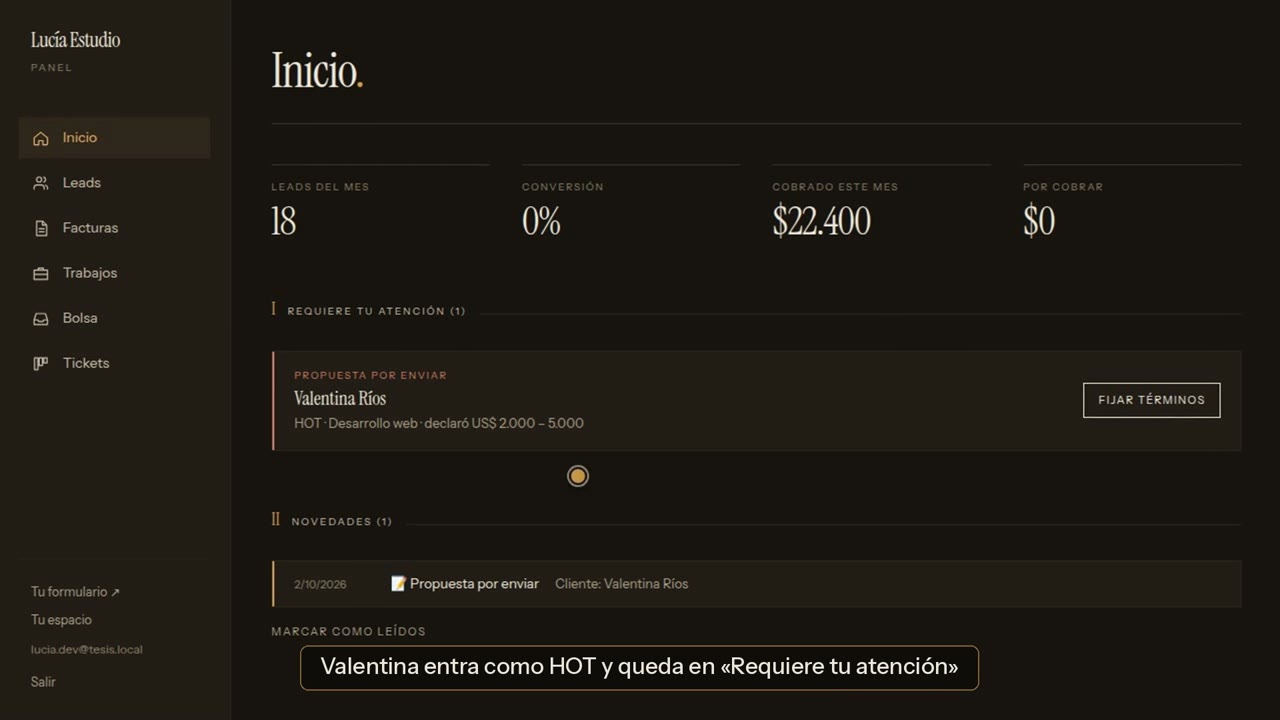
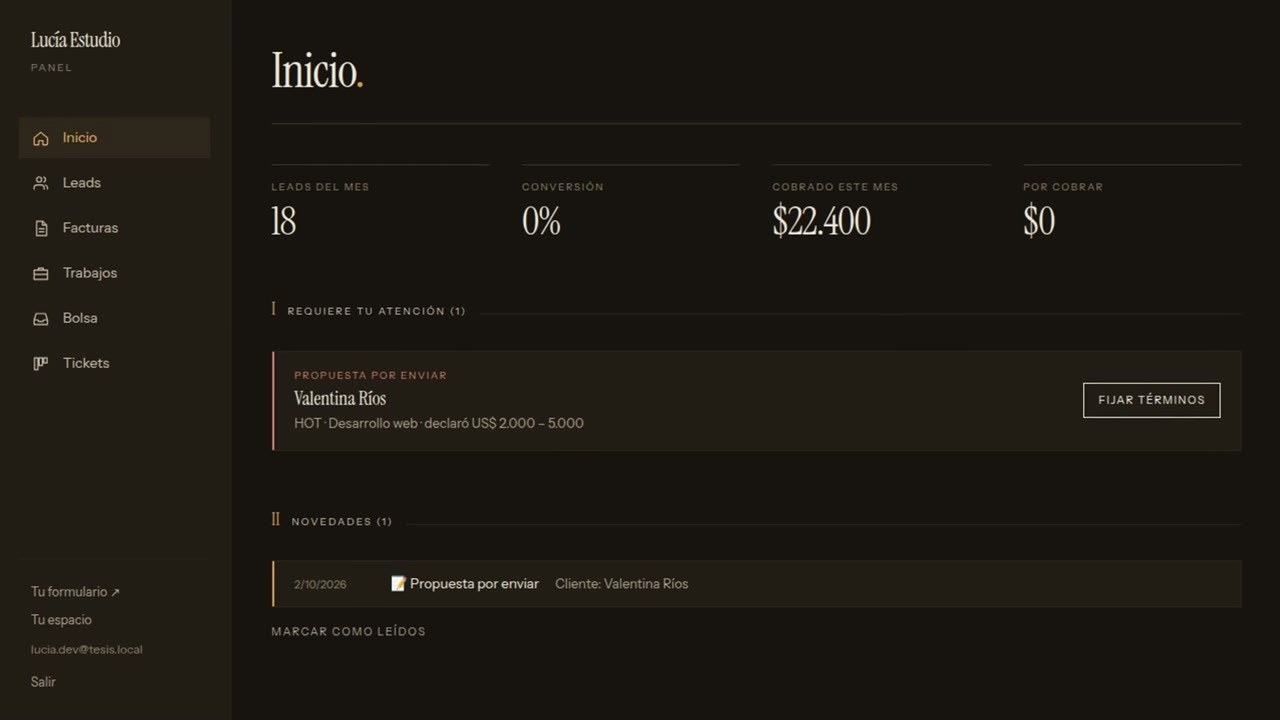
Destacar métricas del CRM, aclarar qué busco y mejorar SEO y habilidades

Changed region(s): [[0.25, 0.8861, 0.75, 0.9472], [0.4375, 0.6417, 0.4688, 0.6722]]

diff --git a/index.html b/index.html
@@ -3,7 +3,7 @@
 <head>
     <meta charset="UTF-8">
     <meta name="viewport" content="width=device-width, initial-scale=1.0">
-    <title>Portfolio Tobias Rivas</title>
+    <title>Tobias Rivas • Desarrollador Full Stack (React, Next.js, NestJS)</title>
     <meta name="description" content="Portfolio de Tobias Rivas, Técnico Universitario en Programación y desarrollador full stack de Mendoza, Argentina.">
     <meta property="og:type" content="website">
     <meta property="og:title" content="Tobias Rivas • Desarrollador Full Stack">
@@ -16,6 +16,32 @@
     <meta name="twitter:card" content="summary_large_image">
     <meta name="twitter:image" content="https://tobias-rivas.vercel.app/img/og.jpg">
     <link rel="canonical" href="https://tobias-rivas.vercel.app/">
+    <script type="application/ld+json">
+    {
+        "@context": "https://schema.org",
+        "@type": "Person",
+        "name": "Tobias Rivas",
+        "url": "https://tobias-rivas.vercel.app/",
+        "image": "https://tobias-rivas.vercel.app/img/profile.png",
+        "jobTitle": "Desarrollador Full Stack",
+        "email": "mailto:tobiasbrivas@gmail.com",
+        "address": {
+            "@type": "PostalAddress",
+            "addressLocality": "Mendoza",
+            "addressCountry": "AR"
+        },
+        "alumniOf": {
+            "@type": "CollegeOrUniversity",
+            "name": "Universidad Tecnológica Nacional, Facultad Regional Mendoza"
+        },
+        "knowsLanguage": ["es", "en"],
+        "knowsAbout": ["TypeScript", "React", "Next.js", "NestJS", "Node.js", "PostgreSQL", "Supabase", "n8n", "Stripe", "Docker"],
+        "sameAs": [
+            "https://github.com/Boit-6",
+            "https://www.linkedin.com/in/tobias-rivas-1220b7283/"
+        ]
+    }
+    </script>
     <script>
         // Tema e idioma antes del primer pintado, para que no parpadee
         (function () {
@@ -65,7 +91,7 @@
         <div class="content-grid">
             <div class="about-card">
                 <h2 class="about__heading" id="about-heading">Sobre mí</h2>
-                <p id="about-paragraph">Técnico Universitario en Programación (UTN) y Técnico en Electrónica. Desarrollo aplicaciones web full stack con React, Next.js, NestJS y PostgreSQL, y automatizo procesos con n8n. Vengo del servicio técnico de hardware, así que resuelvo tanto problemas de software como de equipos y redes. Busco crecer como desarrollador aportando trabajo en equipo, aprendizaje rápido y adaptabilidad.</p>
+                <p id="about-paragraph">Técnico Universitario en Programación (UTN) y Técnico en Electrónica. Desarrollo aplicaciones web full stack con React, Next.js, NestJS y PostgreSQL, y automatizo procesos con n8n. Vengo del servicio técnico de hardware, así que resuelvo tanto problemas de software como de equipos y redes. Busco un puesto como desarrollador full stack, remoto o presencial en Mendoza. Disponibilidad inmediata.</p>
                 <p class="about__languages" id="about-languages">Idiomas: Español (nativo) • Inglés (intermedio, B1)</p>
             </div>
 
@@ -126,9 +152,11 @@
                     <h3 id="tools-heading">Herramientas</h3>
                     <div class="skills__list">
                         <div class="skill"><svg class="skills__icon skills__icon--git" xmlns="http://www.w3.org/2000/svg" viewBox="0 0 24 24" role="img"><title>Git</title><path d="M13.09 23.549a1.54 1.54 0 0 1-2.18 0L.451 13.089a1.54 1.54 0 0 1 0-2.179l7.191-7.19 2.733 2.733a1.85 1.85 0 0 0 .964 2.326v6.66a1.849 1.849 0 1 0 1.54 0V8.957l2.508 2.508a1.85 1.85 0 1 0 1.09-1.09l-2.634-2.634a1.85 1.85 0 0 0-2.378-2.377L8.73 2.63 10.91.451a1.54 1.54 0 0 1 2.179 0l10.459 10.46a1.54 1.54 0 0 1 0 2.179z"/></svg><span>Git</span></div>
-                        <div class="skill"><svg class="skills__icon skills__icon--vscode" xmlns="http://www.w3.org/2000/svg" viewBox="0 0 24 24" role="img"><title>VS Code</title><path d="M23.15 2.587L18.21.21a1.494 1.494 0 0 0-1.705.29l-9.46 8.63-4.12-3.128a.999.999 0 0 0-1.276.057L.327 7.261A1 1 0 0 0 .326 8.74L3.899 12 .326 15.26a1 1 0 0 0 .001 1.479L1.65 17.94a.999.999 0 0 0 1.276.057l4.12-3.128 9.46 8.63a1.492 1.492 0 0 0 1.704.29l4.942-2.377A1.5 1.5 0 0 0 24 20.06V3.939a1.5 1.5 0 0 0-.85-1.352zm-5.146 14.861L10.826 12l7.178-5.448v10.896z"/></svg><span>VS Code</span></div>
                         <div class="skill"><svg class="skills__icon skills__icon--docker" xmlns="http://www.w3.org/2000/svg" viewBox="0 0 24 24" role="img"><title>Docker</title><path d="M13.983 11.078h2.119a.186.186 0 00.186-.185V9.006a.186.186 0 00-.186-.186h-2.119a.185.185 0 00-.185.185v1.888c0 .102.083.185.185.185m-2.954-5.43h2.118a.186.186 0 00.186-.186V3.574a.186.186 0 00-.186-.185h-2.118a.185.185 0 00-.185.185v1.888c0 .102.082.185.185.185m0 2.716h2.118a.187.187 0 00.186-.186V6.29a.186.186 0 00-.186-.185h-2.118a.185.185 0 00-.185.185v1.887c0 .102.082.185.185.186m-2.93 0h2.12a.186.186 0 00.184-.186V6.29a.185.185 0 00-.185-.185H8.1a.185.185 0 00-.185.185v1.887c0 .102.083.185.185.186m-2.964 0h2.119a.186.186 0 00.185-.186V6.29a.185.185 0 00-.185-.185H5.136a.186.186 0 00-.186.185v1.887c0 .102.084.185.186.186m5.893 2.715h2.118a.186.186 0 00.186-.185V9.006a.186.186 0 00-.186-.186h-2.118a.185.185 0 00-.185.185v1.888c0 .102.082.185.185.185m-2.93 0h2.12a.185.185 0 00.184-.185V9.006a.185.185 0 00-.184-.186h-2.12a.185.185 0 00-.184.185v1.888c0 .102.083.185.185.185m-2.964 0h2.119a.185.185 0 00.185-.185V9.006a.185.185 0 00-.184-.186h-2.12a.186.186 0 00-.186.186v1.887c0 .102.084.185.186.185m-2.92 0h2.12a.185.185 0 00.184-.185V9.006a.185.185 0 00-.184-.186h-2.12a.185.185 0 00-.184.185v1.888c0 .102.082.185.185.185M23.763 9.89c-.065-.051-.672-.51-1.954-.51-.338.001-.676.03-1.01.087-.248-1.7-1.653-2.53-1.716-2.566l-.344-.199-.226.327c-.284.438-.49.922-.612 1.43-.23.97-.09 1.882.403 2.661-.595.332-1.55.413-1.744.42H.751a.751.751 0 00-.75.748 11.376 11.376 0 00.692 4.062c.545 1.428 1.355 2.48 2.41 3.124 1.18.723 3.1 1.137 5.275 1.137.983.003 1.963-.086 2.93-.266a12.248 12.248 0 003.823-1.389c.98-.567 1.86-1.288 2.61-2.136 1.252-1.418 1.998-2.997 2.553-4.4h.221c1.372 0 2.215-.549 2.68-1.009.309-.293.55-.65.707-1.046l.098-.288Z"/></svg><span>Docker</span></div>
                         <div class="skill"><svg class="skills__icon skills__icon--n8n" xmlns="http://www.w3.org/2000/svg" viewBox="0 0 24 24" role="img"><title>n8n</title><path d="M21.4737 5.6842c-1.1772 0-2.1663.8051-2.4468 1.8947h-2.8955c-1.235 0-2.289.893-2.492 2.111l-.1038.623a1.263 1.263 0 0 1-1.246 1.0555H11.289c-.2805-1.0896-1.2696-1.8947-2.4468-1.8947s-2.1663.8051-2.4467 1.8947H4.973c-.2805-1.0896-1.2696-1.8947-2.4468-1.8947C1.1311 9.4737 0 10.6047 0 12s1.131 2.5263 2.5263 2.5263c1.1772 0 2.1663-.8051 2.4468-1.8947h1.4223c.2804 1.0896 1.2696 1.8947 2.4467 1.8947 1.1772 0 2.1663-.8051 2.4468-1.8947h1.0008a1.263 1.263 0 0 1 1.2459 1.0555l.1038.623c.203 1.218 1.257 2.111 2.492 2.111h.3692c.2804 1.0895 1.2696 1.8947 2.4468 1.8947 1.3952 0 2.5263-1.131 2.5263-2.5263s-1.131-2.5263-2.5263-2.5263c-1.1772 0-2.1664.805-2.4468 1.8947h-.3692a1.263 1.263 0 0 1-1.246-1.0555l-.1037-.623A2.52 2.52 0 0 0 13.9607 12a2.52 2.52 0 0 0 .821-1.4794l.1038-.623a1.263 1.263 0 0 1 1.2459-1.0555h2.8955c.2805 1.0896 1.2696 1.8947 2.4468 1.8947 1.3952 0 2.5263-1.131 2.5263-2.5263s-1.131-2.5263-2.5263-2.5263m0 1.2632a1.263 1.263 0 0 1 1.2631 1.2631 1.263 1.263 0 0 1-1.2631 1.2632 1.263 1.263 0 0 1-1.2632-1.2632 1.263 1.263 0 0 1 1.2632-1.2631M2.5263 10.7368A1.263 1.263 0 0 1 3.7895 12a1.263 1.263 0 0 1-1.2632 1.2632A1.263 1.263 0 0 1 1.2632 12a1.263 1.263 0 0 1 1.2631-1.2632m6.3158 0A1.263 1.263 0 0 1 10.1053 12a1.263 1.263 0 0 1-1.2632 1.2632A1.263 1.263 0 0 1 7.579 12a1.263 1.263 0 0 1 1.2632-1.2632m10.1053 3.7895a1.263 1.263 0 0 1 1.2631 1.2632 1.263 1.263 0 0 1-1.2631 1.2631 1.263 1.263 0 0 1-1.2632-1.2631 1.263 1.263 0 0 1 1.2632-1.2632"/></svg><span>n8n</span></div>
+                        <div class="skill"><svg class="skills__icon skills__icon--actions" xmlns="http://www.w3.org/2000/svg" viewBox="0 0 24 24" role="img"><title>GitHub Actions</title><path d="M10.984 13.836a.5.5 0 0 1-.353-.146l-.745-.743a.5.5 0 1 1 .706-.708l.392.391 1.181-1.18a.5.5 0 0 1 .708.707l-1.535 1.533a.504.504 0 0 1-.354.146zm9.353-.147l1.534-1.532a.5.5 0 0 0-.707-.707l-1.181 1.18-.392-.391a.5.5 0 1 0-.706.708l.746.743a.497.497 0 0 0 .706-.001zM4.527 7.452l2.557-1.585A1 1 0 0 0 7.09 4.17L4.533 2.56A1 1 0 0 0 3 3.406v3.196a1.001 1.001 0 0 0 1.527.85zm2.03-2.436L4 6.602V3.406l2.557 1.61zM24 12.5c0 1.93-1.57 3.5-3.5 3.5a3.503 3.503 0 0 1-3.46-3h-2.08a3.503 3.503 0 0 1-3.46 3 3.502 3.502 0 0 1-3.46-3h-.558c-.972 0-1.85-.399-2.482-1.042V17c0 1.654 1.346 3 3 3h.04c.244-1.693 1.7-3 3.46-3 1.93 0 3.5 1.57 3.5 3.5S13.43 24 11.5 24a3.502 3.502 0 0 1-3.46-3H8c-2.206 0-4-1.794-4-4V9.899A5.008 5.008 0 0 1 0 5c0-2.757 2.243-5 5-5s5 2.243 5 5a5.005 5.005 0 0 1-4.952 4.998A2.482 2.482 0 0 0 7.482 12h.558c.244-1.693 1.7-3 3.46-3a3.502 3.502 0 0 1 3.46 3h2.08a3.503 3.503 0 0 1 3.46-3c1.93 0 3.5 1.57 3.5 3.5zm-15 8c0 1.378 1.122 2.5 2.5 2.5s2.5-1.122 2.5-2.5-1.122-2.5-2.5-2.5S9 19.122 9 20.5zM5 9c2.206 0 4-1.794 4-4S7.206 1 5 1 1 2.794 1 5s1.794 4 4 4zm9 3.5c0-1.378-1.122-2.5-2.5-2.5S9 11.122 9 12.5s1.122 2.5 2.5 2.5 2.5-1.122 2.5-2.5zm9 0c0-1.378-1.122-2.5-2.5-2.5S18 11.122 18 12.5s1.122 2.5 2.5 2.5 2.5-1.122 2.5-2.5zm-13 8a.5.5 0 1 0 1 0 .5.5 0 0 0-1 0zm2 0a.5.5 0 1 0 1 0 .5.5 0 0 0-1 0zm12 0c0 1.93-1.57 3.5-3.5 3.5a3.503 3.503 0 0 1-3.46-3.002c-.007.001-.013.005-.021.005l-.506.017h-.017a.5.5 0 0 1-.016-.999l.506-.017c.018-.002.035.006.052.007A3.503 3.503 0 0 1 20.5 17c1.93 0 3.5 1.57 3.5 3.5zm-1 0c0-1.378-1.122-2.5-2.5-2.5S18 19.122 18 20.5s1.122 2.5 2.5 2.5 2.5-1.122 2.5-2.5z"/></svg><span>GitHub Actions</span></div>
+                        <div class="skill"><svg class="skills__icon skills__icon--vitest" xmlns="http://www.w3.org/2000/svg" viewBox="0 0 24 24" role="img"><title>Vitest</title><path d="M11.545 23.3a.613.613 0 0 1-.895.197L.252 15.936A.61.61 0 0 1 0 15.439V6.325c0-.502.569-.792.975-.497l6.358 4.624c.594.433 1.432.25 1.793-.39L14.393.7a.62.62 0 0 1 .535-.314h8.455a.613.613 0 0 1 .537.916z"/></svg><span>Vitest</span></div>
+                        <div class="skill"><svg class="skills__icon skills__icon--stripe" xmlns="http://www.w3.org/2000/svg" viewBox="0 0 24 24" role="img"><title>Stripe</title><path d="M13.976 9.15c-2.172-.806-3.356-1.426-3.356-2.409 0-.831.683-1.305 1.901-1.305 2.227 0 4.515.858 6.09 1.631l.89-5.494C18.252.975 15.697 0 12.165 0 9.667 0 7.589.654 6.104 1.872 4.56 3.147 3.757 4.992 3.757 7.218c0 4.039 2.467 5.76 6.476 7.219 2.585.92 3.445 1.574 3.445 2.583 0 .98-.84 1.545-2.354 1.545-1.875 0-4.965-.921-6.99-2.109l-.9 5.555C5.175 22.99 8.385 24 11.714 24c2.641 0 4.843-.624 6.328-1.813 1.664-1.305 2.525-3.236 2.525-5.732 0-4.128-2.524-5.851-6.594-7.305h.003z"/></svg><span>Stripe</span></div>
                     </div>
                 </div>
 
@@ -191,14 +219,19 @@
             <h2 class="skills-main-heading" id="projects-heading">Proyectos</h2>
             <div class="projects-container">
                 <article class="project-card">
-                    <a class="project-image" href="https://github.com/Boit-6/crm-freelancers-n8n" target="_blank" rel="noopener noreferrer">
+                    <a class="project-image" href="https://crm-freelancers-n8n.vercel.app" target="_blank" rel="noopener noreferrer">
                         <img src="img/crm-panel.jpg" alt="Panel del CRM para freelancers" id="project1-image" loading="lazy">
                     </a>
                     <div class="project-info">
                         <h3 id="project1-title">CRM para freelancers</h3>
                         <p class="project-tag" id="project1-tag">Trabajo Final • Tecnicatura Universitaria en Programación (UTN)</p>
                         <p class="project-description" id="project1-description">Plataforma que lleva un pedido de la consulta al cobro sin tareas manuales: propuesta en línea, factura en PDF, pagos protegidos por hitos con Stripe y panel en tiempo real. Empezó como trabajo final en equipo de dos y después la amplié por mi cuenta.</p>
-                        <p class="project-stack">Next.js • React • n8n • Supabase • Stripe • Docker</p>
+                        <ul class="project-highlights">
+                            <li id="project1-highlight1">Pagos con Stripe Connect por hitos: fondos retenidos, liberación automática a los 7 días y webhooks idempotentes con firma verificada.</li>
+                            <li id="project1-highlight2">Automatización en n8n con 21 webhooks, 9 procesos programados y 314 nodos.</li>
+                            <li id="project1-highlight3">291 casos de prueba de RLS, 240 pruebas de front con Vitest y CI con lint, tipos, build y escaneo de secretos.</li>
+                        </ul>
+                        <p class="project-stack">Next.js • React • TypeScript • n8n • Supabase • Stripe Connect • Docker</p>
                         <div class="project-links">
                             <a href="https://github.com/Boit-6/crm-freelancers-n8n" target="_blank" rel="noopener noreferrer" id="project1-repo">Repositorio</a>
                             <a href="https://crm-freelancers-n8n.vercel.app" target="_blank" rel="noopener noreferrer" id="project1-demo">Demo en vivo</a>

diff --git a/src/script.ts b/src/script.ts
@@ -56,6 +56,7 @@ interface LanguageText {
     location: string;
     cvButton: string;
     cvFile: string;
+    title: string;
     metaDescription: string;
     aboutHeading: string;
     aboutParagraphEl: string;
@@ -91,6 +92,9 @@ interface LanguageText {
     project1Title: string;
     project1Tag: string;
     project1Description: string;
+    project1Highlight1: string;
+    project1Highlight2: string;
+    project1Highlight3: string;
     project1ImageAlt: string;
     project2Title: string;
     project2Tag: string;
@@ -126,9 +130,10 @@ const text: TextContent = {
         location: 'Mendoza, Argentina',
         cvButton: 'Descargar CV',
         cvFile: 'cv/CV-Tobias-Rivas-ES.pdf',
+        title: 'Tobias Rivas • Desarrollador Full Stack (React, Next.js, NestJS)',
         metaDescription: 'Portfolio de Tobias Rivas, Técnico Universitario en Programación y desarrollador full stack de Mendoza, Argentina.',
         aboutHeading: 'Sobre mí',
-        aboutParagraphEl: 'Técnico Universitario en Programación (UTN) y Técnico en Electrónica. Desarrollo aplicaciones web full stack con React, Next.js, NestJS y PostgreSQL, y automatizo procesos con n8n. Vengo del servicio técnico de hardware, así que resuelvo tanto problemas de software como de equipos y redes. Busco crecer como desarrollador aportando trabajo en equipo, aprendizaje rápido y adaptabilidad.',
+        aboutParagraphEl: 'Técnico Universitario en Programación (UTN) y Técnico en Electrónica. Desarrollo aplicaciones web full stack con React, Next.js, NestJS y PostgreSQL, y automatizo procesos con n8n. Vengo del servicio técnico de hardware, así que resuelvo tanto problemas de software como de equipos y redes. Busco un puesto como desarrollador full stack, remoto o presencial en Mendoza. Disponibilidad inmediata.',
         aboutLanguages: 'Idiomas: Español (nativo) • Inglés (intermedio, B1)',
         skillsHeading: 'Habilidades',
         toolsHeading: 'Herramientas',
@@ -161,6 +166,9 @@ const text: TextContent = {
         project1Title: 'CRM para freelancers',
         project1Tag: 'Trabajo Final • Tecnicatura Universitaria en Programación (UTN)',
         project1Description: 'Plataforma que lleva un pedido de la consulta al cobro sin tareas manuales: propuesta en línea, factura en PDF, pagos protegidos por hitos con Stripe y panel en tiempo real. Empezó como trabajo final en equipo de dos y después la amplié por mi cuenta.',
+        project1Highlight1: 'Pagos con Stripe Connect por hitos: fondos retenidos, liberación automática a los 7 días y webhooks idempotentes con firma verificada.',
+        project1Highlight2: 'Automatización en n8n con 21 webhooks, 9 procesos programados y 314 nodos.',
+        project1Highlight3: '291 casos de prueba de RLS, 240 pruebas de front con Vitest y CI con lint, tipos, build y escaneo de secretos.',
         project1ImageAlt: 'Panel del CRM para freelancers',
         project2Title: 'El Hornero',
         project2Tag: 'Sitio web en producción • Salón de eventos',
@@ -185,9 +193,10 @@ const text: TextContent = {
         location: 'Mendoza, Argentina',
         cvButton: 'Download CV',
         cvFile: 'cv/CV-Tobias-Rivas-EN.pdf',
+        title: 'Tobias Rivas • Full Stack Developer (React, Next.js, NestJS)',
         metaDescription: 'Portfolio of Tobias Rivas, University Programming Technician and full stack developer from Mendoza, Argentina.',
         aboutHeading: 'About Me',
-        aboutParagraphEl: 'University Programming Technician (UTN) and Electronics Technician. I build full stack web applications with React, Next.js, NestJS and PostgreSQL, and automate processes with n8n. I come from hardware technical support, so I solve software problems as well as equipment and network issues. Looking to grow as a developer, bringing teamwork, fast learning and adaptability.',
+        aboutParagraphEl: 'University Programming Technician (UTN) and Electronics Technician. I build full stack web applications with React, Next.js, NestJS and PostgreSQL, and automate processes with n8n. I come from hardware technical support, so I solve software problems as well as equipment and network issues. Looking for a full stack developer role, remote or on-site in Mendoza. Available immediately.',
         aboutLanguages: 'Languages: Spanish (native) • English (intermediate, B1)',
         skillsHeading: 'Skills',
         toolsHeading: 'Tools',
@@ -220,6 +229,9 @@ const text: TextContent = {
         project1Title: 'CRM for freelancers',
         project1Tag: 'Final Project • University Technical Degree in Programming (UTN)',
         project1Description: 'Platform that takes a request from inquiry to payment with no manual tasks: online proposal, PDF invoice, milestone-protected payments with Stripe and a real-time dashboard. It started as a final project in a team of two, and I then extended it on my own.',
+        project1Highlight1: 'Milestone payments with Stripe Connect: funds held, automatic release after 7 days and idempotent webhooks with signature verification.',
+        project1Highlight2: 'n8n automation with 21 webhooks, 9 scheduled processes and 314 nodes.',
+        project1Highlight3: '291 RLS test cases, 240 front-end tests with Vitest, and CI with lint, type checks, build and secret scanning.',
         project1ImageAlt: 'CRM for freelancers dashboard',
         project2Title: 'El Hornero',
         project2Tag: 'Website in production • Event venue',
@@ -346,6 +358,9 @@ document.addEventListener('DOMContentLoaded', () => {
             'project1-title': text[lang].project1Title,
             'project1-tag': text[lang].project1Tag,
             'project1-description': text[lang].project1Description,
+            'project1-highlight1': text[lang].project1Highlight1,
+            'project1-highlight2': text[lang].project1Highlight2,
+            'project1-highlight3': text[lang].project1Highlight3,
             'project1-repo': text[lang].projectRepo,
             'project1-demo': text[lang].projectDemo,
             'project2-title': text[lang].project2Title,
@@ -366,6 +381,7 @@ document.addEventListener('DOMContentLoaded', () => {
         document.getElementById('project2-image')?.setAttribute('alt', text[lang].project2ImageAlt);
         document.getElementById('cv-button')?.setAttribute('href', text[lang].cvFile);
         q<HTMLMetaElement>('meta[name="description"]')?.setAttribute('content', text[lang].metaDescription);
+        document.title = text[lang].title;
         root.lang = lang;
         root.classList.remove('i18n-pending');
     }

diff --git a/dist/script.js b/dist/script.js
@@ -36,9 +36,10 @@ const text = {
         location: 'Mendoza, Argentina',
         cvButton: 'Descargar CV',
         cvFile: 'cv/CV-Tobias-Rivas-ES.pdf',
+        title: 'Tobias Rivas • Desarrollador Full Stack (React, Next.js, NestJS)',
         metaDescription: 'Portfolio de Tobias Rivas, Técnico Universitario en Programación y desarrollador full stack de Mendoza, Argentina.',
         aboutHeading: 'Sobre mí',
-        aboutParagraphEl: 'Técnico Universitario en Programación (UTN) y Técnico en Electrónica. Desarrollo aplicaciones web full stack con React, Next.js, NestJS y PostgreSQL, y automatizo procesos con n8n. Vengo del servicio técnico de hardware, así que resuelvo tanto problemas de software como de equipos y redes. Busco crecer como desarrollador aportando trabajo en equipo, aprendizaje rápido y adaptabilidad.',
+        aboutParagraphEl: 'Técnico Universitario en Programación (UTN) y Técnico en Electrónica. Desarrollo aplicaciones web full stack con React, Next.js, NestJS y PostgreSQL, y automatizo procesos con n8n. Vengo del servicio técnico de hardware, así que resuelvo tanto problemas de software como de equipos y redes. Busco un puesto como desarrollador full stack, remoto o presencial en Mendoza. Disponibilidad inmediata.',
         aboutLanguages: 'Idiomas: Español (nativo) • Inglés (intermedio, B1)',
         skillsHeading: 'Habilidades',
         toolsHeading: 'Herramientas',
@@ -71,6 +72,9 @@ const text = {
         project1Title: 'CRM para freelancers',
         project1Tag: 'Trabajo Final • Tecnicatura Universitaria en Programación (UTN)',
         project1Description: 'Plataforma que lleva un pedido de la consulta al cobro sin tareas manuales: propuesta en línea, factura en PDF, pagos protegidos por hitos con Stripe y panel en tiempo real. Empezó como trabajo final en equipo de dos y después la amplié por mi cuenta.',
+        project1Highlight1: 'Pagos con Stripe Connect por hitos: fondos retenidos, liberación automática a los 7 días y webhooks idempotentes con firma verificada.',
+        project1Highlight2: 'Automatización en n8n con 21 webhooks, 9 procesos programados y 314 nodos.',
+        project1Highlight3: '291 casos de prueba de RLS, 240 pruebas de front con Vitest y CI con lint, tipos, build y escaneo de secretos.',
         project1ImageAlt: 'Panel del CRM para freelancers',
         project2Title: 'El Hornero',
         project2Tag: 'Sitio web en producción • Salón de eventos',
@@ -95,9 +99,10 @@ const text = {
         location: 'Mendoza, Argentina',
         cvButton: 'Download CV',
         cvFile: 'cv/CV-Tobias-Rivas-EN.pdf',
+        title: 'Tobias Rivas • Full Stack Developer (React, Next.js, NestJS)',
         metaDescription: 'Portfolio of Tobias Rivas, University Programming Technician and full stack developer from Mendoza, Argentina.',
         aboutHeading: 'About Me',
-        aboutParagraphEl: 'University Programming Technician (UTN) and Electronics Technician. I build full stack web applications with React, Next.js, NestJS and PostgreSQL, and automate processes with n8n. I come from hardware technical support, so I solve software problems as well as equipment and network issues. Looking to grow as a developer, bringing teamwork, fast learning and adaptability.',
+        aboutParagraphEl: 'University Programming Technician (UTN) and Electronics Technician. I build full stack web applications with React, Next.js, NestJS and PostgreSQL, and automate processes with n8n. I come from hardware technical support, so I solve software problems as well as equipment and network issues. Looking for a full stack developer role, remote or on-site in Mendoza. Available immediately.',
         aboutLanguages: 'Languages: Spanish (native) • English (intermediate, B1)',
         skillsHeading: 'Skills',
         toolsHeading: 'Tools',
@@ -130,6 +135,9 @@ const text = {
         project1Title: 'CRM for freelancers',
         project1Tag: 'Final Project • University Technical Degree in Programming (UTN)',
         project1Description: 'Platform that takes a request from inquiry to payment with no manual tasks: online proposal, PDF invoice, milestone-protected payments with Stripe and a real-time dashboard. It started as a final project in a team of two, and I then extended it on my own.',
+        project1Highlight1: 'Milestone payments with Stripe Connect: funds held, automatic release after 7 days and idempotent webhooks with signature verification.',
+        project1Highlight2: 'n8n automation with 21 webhooks, 9 scheduled processes and 314 nodes.',
+        project1Highlight3: '291 RLS test cases, 240 front-end tests with Vitest, and CI with lint, type checks, build and secret scanning.',
         project1ImageAlt: 'CRM for freelancers dashboard',
         project2Title: 'El Hornero',
         project2Tag: 'Website in production • Event venue',
@@ -246,6 +254,9 @@ document.addEventListener('DOMContentLoaded', () => {
             'project1-title': text[lang].project1Title,
             'project1-tag': text[lang].project1Tag,
             'project1-description': text[lang].project1Description,
+            'project1-highlight1': text[lang].project1Highlight1,
+            'project1-highlight2': text[lang].project1Highlight2,
+            'project1-highlight3': text[lang].project1Highlight3,
             'project1-repo': text[lang].projectRepo,
             'project1-demo': text[lang].projectDemo,
             'project2-title': text[lang].project2Title,
@@ -266,6 +277,7 @@ document.addEventListener('DOMContentLoaded', () => {
         document.getElementById('project2-image')?.setAttribute('alt', text[lang].project2ImageAlt);
         document.getElementById('cv-button')?.setAttribute('href', text[lang].cvFile);
         q('meta[name="description"]')?.setAttribute('content', text[lang].metaDescription);
+        document.title = text[lang].title;
         root.lang = lang;
         root.classList.remove('i18n-pending');
     }

diff --git a/src/style.css b/src/style.css
@@ -307,8 +307,14 @@ button svg {
 .skills__icon--git:hover {
     fill:#f05032;
 }
-.skills__icon--vscode:hover {
-    fill:#007acc;
+.skills__icon--actions:hover {
+    fill:#2088ff;
+}
+.skills__icon--vitest:hover {
+    fill:#6e9f18;
+}
+.skills__icon--stripe:hover {
+    fill:#635bff;
 }
 .skills__icon--postgres:hover {
     fill:#336791;
@@ -388,6 +394,17 @@ button svg {
     font-size:0.9rem;
     color:var(--text);
     opacity:0.9;
+}
+.project-highlights {
+    margin-top:10px;
+    padding-left:18px;
+    line-height:1.5;
+    font-size:0.85rem;
+    color:var(--text);
+    opacity:0.9;
+}
+.project-highlights li + li {
+    margin-top:4px;
 }
 .project-stack {
     font-size:0.85rem;
